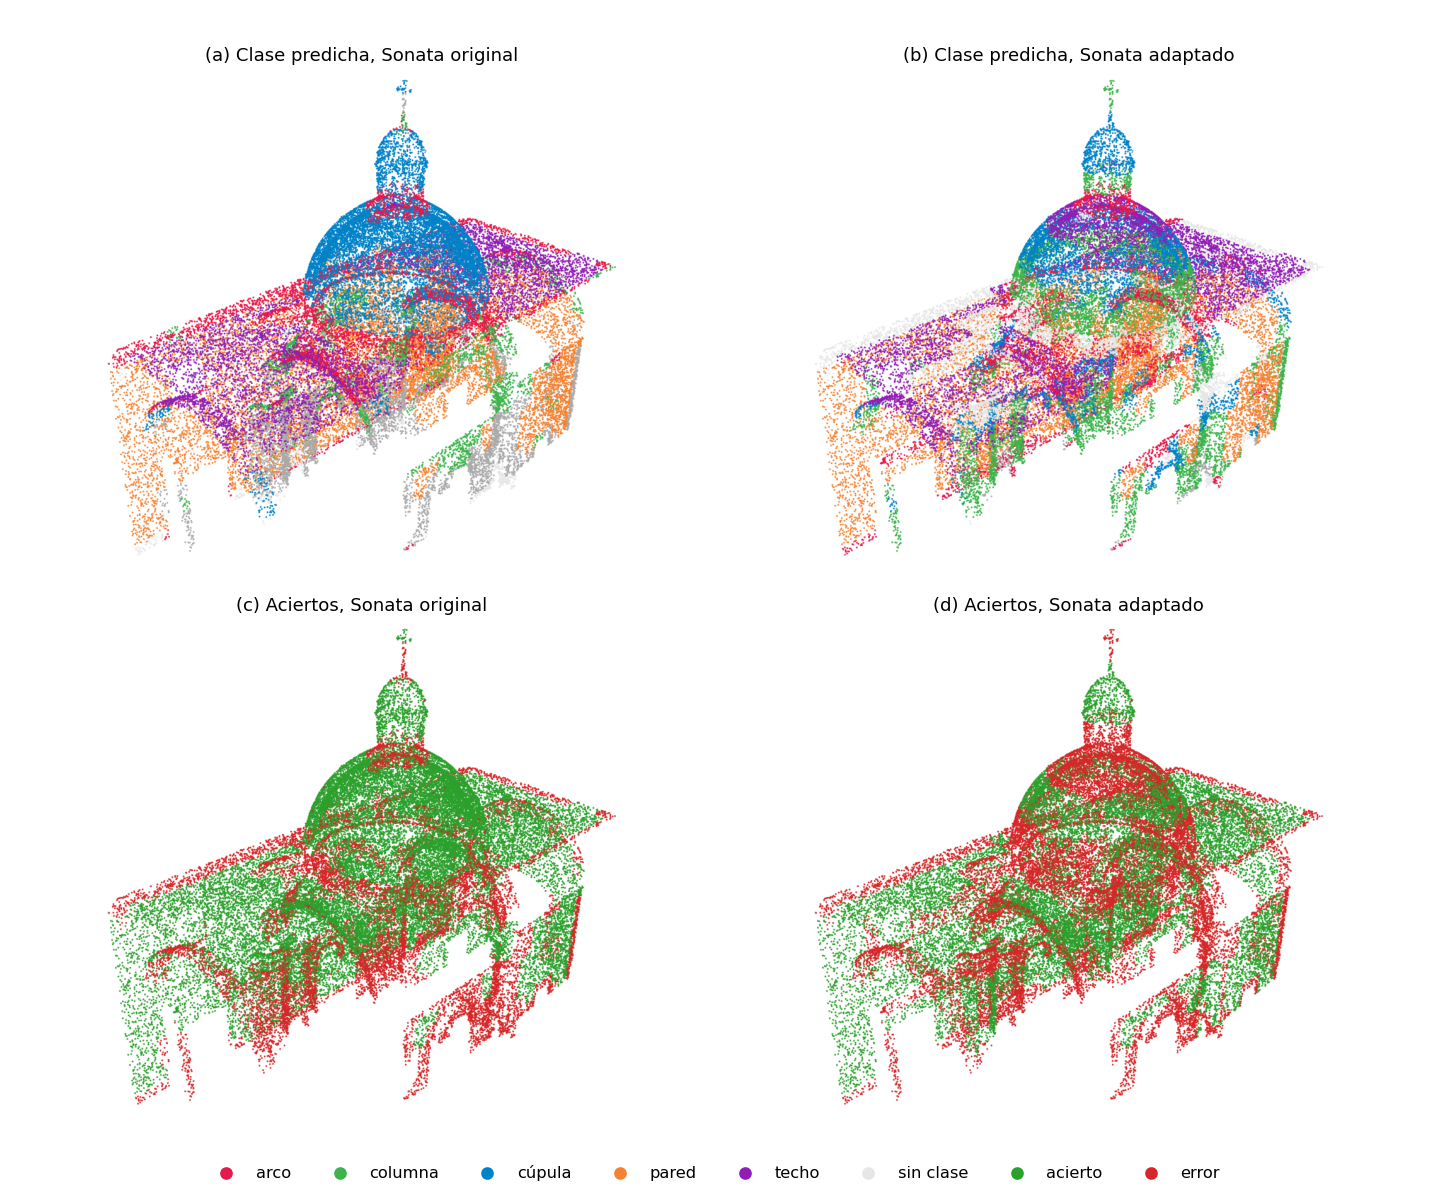
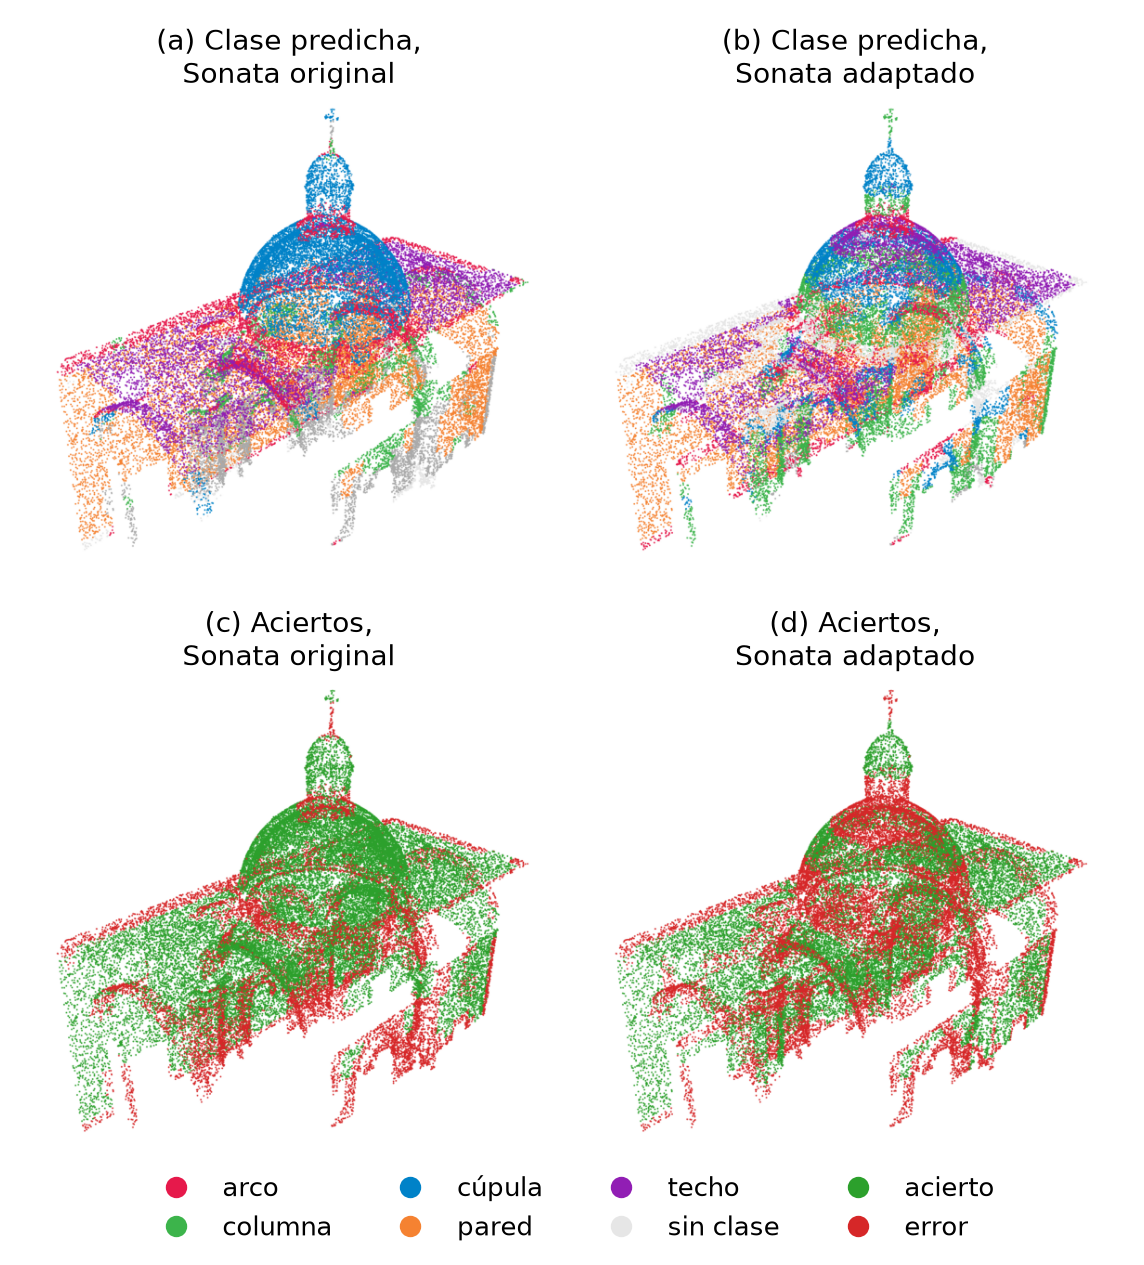
Capitulo IV: la figura de M3 en la capilla con la imagen mas chica y las letras mas grandes

diff --git a/experimentacion/escena_capilla_etiquetada/componer_capturas.py b/experimentacion/escena_capilla_etiquetada/componer_capturas.py
@@ -39,21 +39,22 @@ def recorte_comun(nombres, margen=12):
     return max(y0 - margen, 0), y1 + margen, max(x0 - margen, 0), x1 + margen
 
 
-def figura(paneles, filas, columnas, salida, leyenda, ancho=11.0, alto_panel=4.3):
+def figura(paneles, filas, columnas, salida, leyenda, ancho=11.0, alto_panel=4.3, fuente=10, fuente_leyenda=9,
+           dpi=130, ncol_leyenda=None, alto_leyenda=0.6, top=0.94, bottom=0.07, hspace=0.12):
     nombres = [p[0] for p in paneles]
     y0, y1, x0, x1 = recorte_comun(nombres)
-    fig, ejes = plt.subplots(filas, columnas, figsize=(ancho, alto_panel * filas + 0.6), squeeze=False)
+    fig, ejes = plt.subplots(filas, columnas, figsize=(ancho, alto_panel * filas + alto_leyenda), squeeze=False)
     for ax in ejes.ravel():
         ax.axis("off")
     for k, (nombre, titulo) in enumerate(paneles):
         ax = ejes[k // columnas, k % columnas]
         ax.imshow(cargar(nombre)[y0:y1, x0:x1])
-        ax.set_title(titulo, fontsize=10)
+        ax.set_title(titulo, fontsize=fuente)
     h = [plt.Line2D([0], [0], marker="o", ls="", color=c, label=n) for n, c in leyenda]
     if h:
-        fig.legend(handles=h, loc="lower center", ncol=len(h), frameon=False, fontsize=9)
-    fig.subplots_adjust(left=0.01, right=0.99, top=0.94, bottom=0.07 if h else 0.01, wspace=0.02, hspace=0.12)
-    fig.savefig(os.path.join(a.salida, salida), dpi=130)
+        fig.legend(handles=h, loc="lower center", ncol=ncol_leyenda or len(h), frameon=False, fontsize=fuente_leyenda)
+    fig.subplots_adjust(left=0.01, right=0.99, top=top, bottom=bottom if h else 0.01, wspace=0.02, hspace=hspace)
+    fig.savefig(os.path.join(a.salida, salida), dpi=dpi)
     plt.close(fig)
 
 
@@ -67,9 +68,12 @@ figura([("m2_cabeza_SemanticPOSS.png", "(a) Cabeza predicha, HyperNCD original (
        2, 2, "captura_m2.png",
        [("novedoso", "#e07b39"), ("conocido", "#2b7bba")])
 
-figura([("m3_pred_original.png", "(a) Clase predicha, Sonata original"),
-        ("m3_pred_adaptado.png", "(b) Clase predicha, Sonata adaptado"),
-        ("m3_acierto_original.png", "(c) Aciertos, Sonata original"),
-        ("m3_acierto_adaptado.png", "(d) Aciertos, Sonata adaptado")],
+# M3: imagen mas chica en la pagina y letras mas grandes (se imprime a ~0.85 del ancho del texto, sin reducir la letra)
+figura([("m3_pred_original.png", "(a) Clase predicha,\nSonata original"),
+        ("m3_pred_adaptado.png", "(b) Clase predicha,\nSonata adaptado"),
+        ("m3_acierto_original.png", "(c) Aciertos,\nSonata original"),
+        ("m3_acierto_adaptado.png", "(d) Aciertos,\nSonata adaptado")],
        2, 2, "captura_m3.png",
-       CLASES + [("sin clase", "#e6e6e6"), ("acierto", "#2ca02c"), ("error", "#d62728")])
+       CLASES + [("sin clase", "#e6e6e6"), ("acierto", "#2ca02c"), ("error", "#d62728")],
+       ancho=5.2, alto_panel=2.6, fuente=9, fuente_leyenda=8.5, dpi=220, ncol_leyenda=4, alto_leyenda=0.55,
+       top=0.92, bottom=0.10, hspace=0.28)

diff --git a/documentacion/tesis_latex/asesoria5/secciones/capitulo4.tex b/documentacion/tesis_latex/asesoria5/secciones/capitulo4.tex
@@ -260,7 +260,7 @@ Tabla~\ref{tab:m2-m4-semillas} da la diferencia con diez semillas.
 
 \begin{figure}[!htbp]
 \centering
-\includegraphics[width=\linewidth]{imagenes/captura_m3.png}
+\includegraphics[width=0.85\linewidth]{imagenes/captura_m3.png}
 \caption[Agrupamiento de M3 sobre la capilla]{Agrupamiento de M3 en la capilla ($K=8$), con Sonata original y adaptado. Arriba, la clase de cada grupo, abajo, aciertos y errores, sin \emph{otro}.}
 \label{fig:captura-m3}
 \end{figure}
